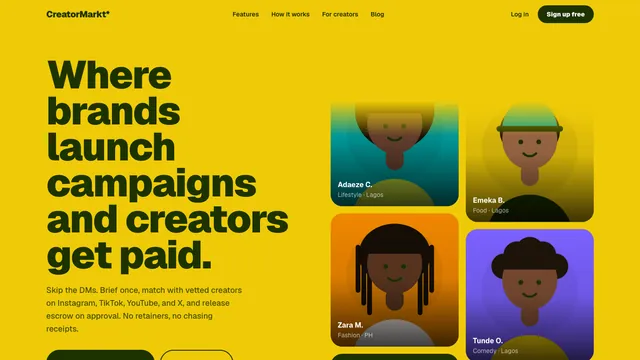
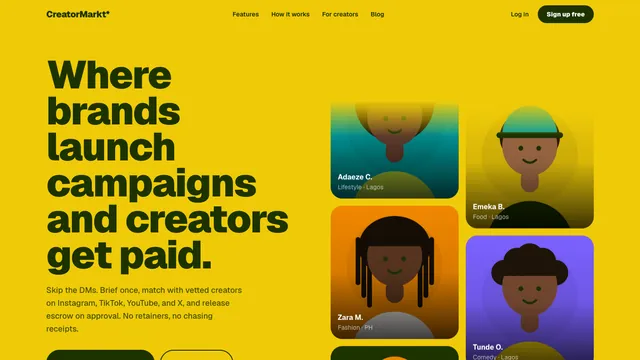
Link Crow and CreatorMarkt to their live sites
Both are in production, so their names become real links like Journey
Studio, and each card carries its URL. Thumbnails re-shot from the live
sites rather than a localhost dev server, so what the card shows is what
a visitor actually gets.

Three of the four now link out; BetProphet keeps the wash alone.

diff --git a/index.html b/index.html
@@ -56,14 +56,14 @@
   editing it by hand. Save one and it becomes a regression test that runs in CI
   and checks every response against the spec the API published.</p>
 
-  <p>And <b data-proj="crow">Crow</b>, a local-services marketplace that lives inside Telegram.
+  <p>And <a href="https://crow.ng" data-proj="crow">Crow</a>, a local-services marketplace that lives inside Telegram.
   You describe what you need the way you'd say it out loud — English or Pidgin,
   typed or as a voice note — and Crow broadcasts the request to approved
   providers who match. The first one to accept gets the job, and both sides talk
   through the bot without ever trading phone numbers. A model reads the
   conversation; Postgres decides who gets the job and who gets paid.</p>
 
-  <p>Before those, <b data-proj="creatormarkt">CreatorMarkt</b>: brands hire creators for video and photo
+  <p>Before those, <a href="https://creatormarkt.app" data-proj="creatormarkt">CreatorMarkt</a>: brands hire creators for video and photo
   work, the budget sits in escrow until the brand approves it, and the post is
   then tracked across Instagram, TikTok, YouTube and X to see how it actually
   performed. And <b data-proj="betprophet">BetProphet</b>, which prices football markets from its own

diff --git a/motion.js b/motion.js
@@ -47,6 +47,7 @@
             'It goes out to approved providers and the first to accept takes it.',
       stack: 'Fastify · Postgres · Paystack',
       shot: 'img/crow.webp',
+      link: 'crow.ng',
       mark: '<circle cx="9" cy="20" r="3.4"/><path d="M15 20h7"/>' +
             '<path d="M14.6 17.6 22 10.5"/><path d="M14.6 22.4 22 29.5"/>' +
             '<circle cx="26" cy="20" r="2.2"/><circle cx="25" cy="8.5" r="2.2"/>' +
@@ -59,6 +60,7 @@
             'escrow until the brand approves, then the post is tracked across four platforms.',
       stack: 'Next.js · Drizzle · Paystack',
       shot: 'img/creatormarkt.webp',
+      link: 'creatormarkt.app',
       mark: '<circle cx="7.5" cy="20" r="3.6"/><circle cx="32.5" cy="20" r="3.6"/>' +
             '<rect x="15" y="14.5" width="10" height="11" rx="2"/>' +
             '<path d="M11.2 20h3.6M25.2 20h3.6"/><path d="M20 18.2v3.4"/>'
